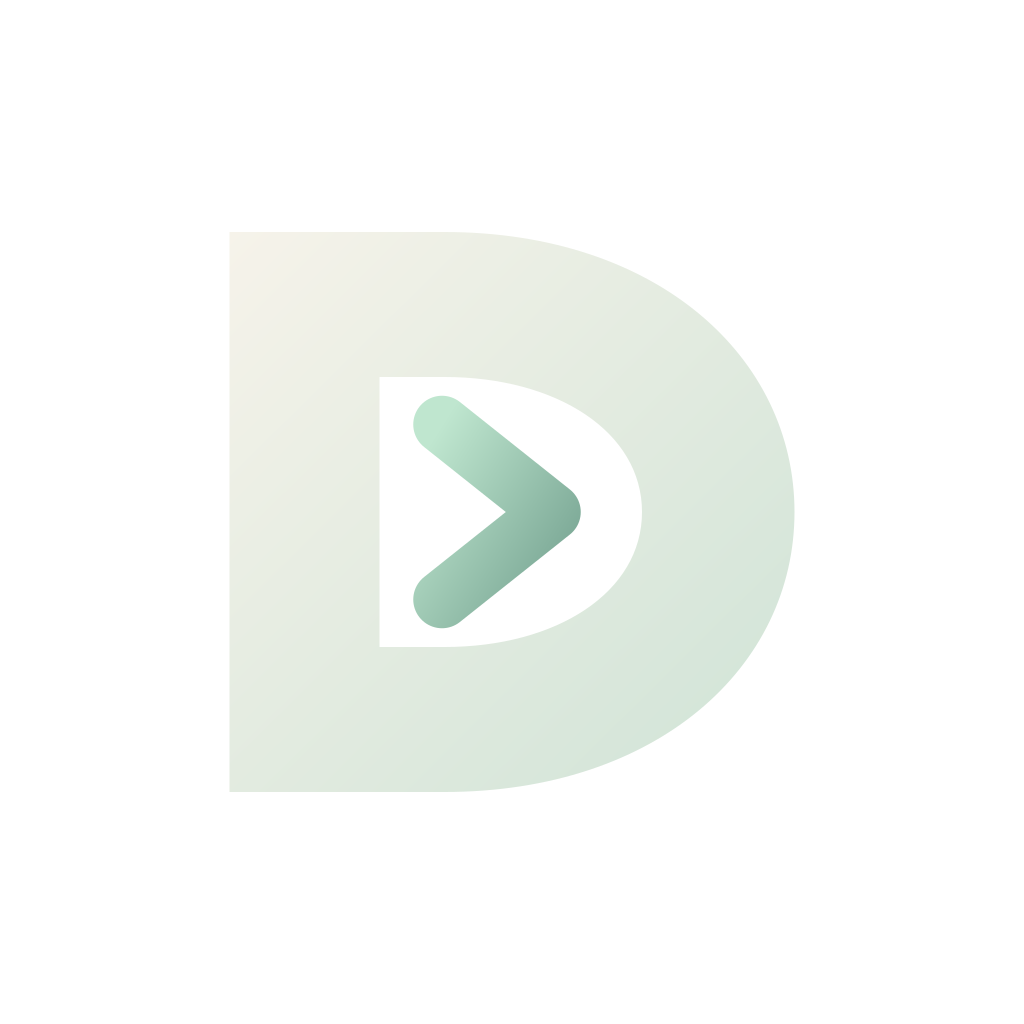
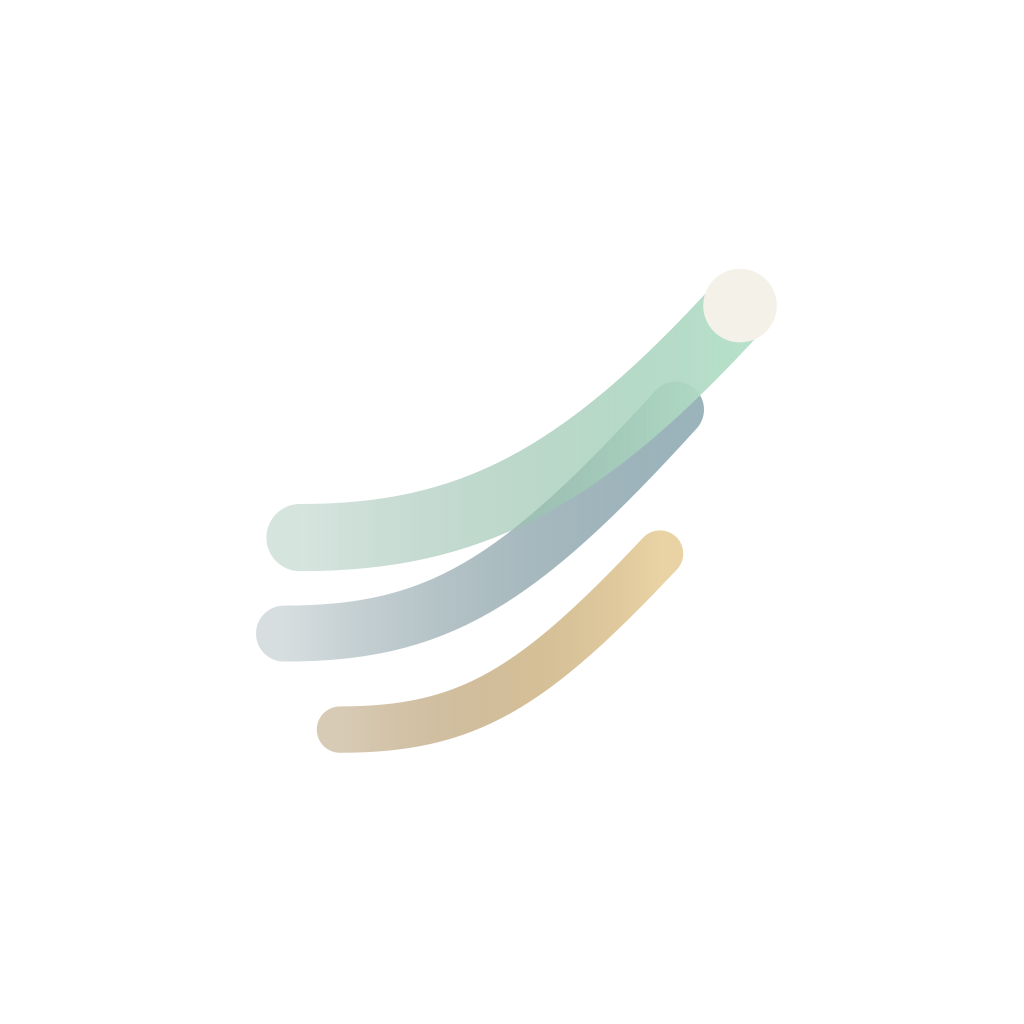
fix(brand): switch mark to Momentum + fix dark-mode auth card contrast Replaces Stride D across all surfaces with the approved Momentum ribbons; Register/Forgot/Reset cards now use bg-surface-container so text is readable in dark mode (was a hardcoded light glass bg).

Changed region(s): [[0.2188, 0.2188, 0.7812, 0.7812]]

diff --git a/frontend/src/components/DravrLogo.tsx b/frontend/src/components/DravrLogo.tsx
@@ -1,4 +1,4 @@
-// ABOUTME: Shared Dravr brand mark — the "Stride D" badge as an inline SVG React component.
+// ABOUTME: Shared Dravr brand mark — the "Momentum" badge as an inline SVG React component.
 // ABOUTME: Single source of truth for the in-app logo; replaces the per-screen inline node-graph SVGs.
 
 import { useId } from 'react';
@@ -10,8 +10,8 @@ interface DravrLogoProps {
 }
 
 /**
- * The canonical Dravr mark: a bold D monogram with a forward chevron, on the
- * Boreal forest badge. Self-contained (brings its own background) so it stays
+ * The canonical Dravr mark: three upward "momentum" ribbons rising to a node, on
+ * the Boreal forest badge. Self-contained (brings its own background) so it stays
  * legible on light, dark, and green surfaces alike. Gradient ids are namespaced
  * per instance via useId so multiple logos on one page never collide.
  *
@@ -21,8 +21,9 @@ interface DravrLogoProps {
 export function DravrLogo({ size = 48, className }: DravrLogoProps) {
   const uid = useId();
   const bg = `${uid}-bg`;
-  const mark = `${uid}-mark`;
-  const acc = `${uid}-acc`;
+  const r1 = `${uid}-r1`;
+  const r2 = `${uid}-r2`;
+  const r3 = `${uid}-r3`;
   const clip = `${uid}-clip`;
   return (
     <svg
@@ -39,13 +40,17 @@ export function DravrLogo({ size = 48, className }: DravrLogoProps) {
           <stop offset="0" stopColor="#00261c" />
           <stop offset="1" stopColor="#0e4030" />
         </linearGradient>
-        <linearGradient id={mark} x1="0.1" y1="0" x2="0.9" y2="1">
-          <stop offset="0" stopColor="#f6f3ea" />
-          <stop offset="1" stopColor="#cfe3d6" />
+        <linearGradient id={r1} x1="0" y1="0" x2="1" y2="0">
+          <stop offset="0" stopColor="#5e7a82" stopOpacity="0.25" />
+          <stop offset="1" stopColor="#9bb3bb" />
         </linearGradient>
-        <linearGradient id={acc} x1="0" y1="0" x2="1" y2="1">
-          <stop offset="0" stopColor="#bfe6cf" />
-          <stop offset="1" stopColor="#79a694" />
+        <linearGradient id={r2} x1="0" y1="0" x2="1" y2="0">
+          <stop offset="0" stopColor="#79a694" stopOpacity="0.3" />
+          <stop offset="1" stopColor="#b6e0c9" />
+        </linearGradient>
+        <linearGradient id={r3} x1="0" y1="0" x2="1" y2="0">
+          <stop offset="0" stopColor="#8f6a2e" stopOpacity="0.35" />
+          <stop offset="1" stopColor="#e9d2a3" />
         </linearGradient>
         <clipPath id={clip}>
           <rect width="1024" height="1024" rx="230" />
@@ -53,20 +58,13 @@ export function DravrLogo({ size = 48, className }: DravrLogoProps) {
       </defs>
       <g clipPath={`url(#${clip})`}>
         <rect width="1024" height="1024" fill={`url(#${bg})`} />
-        <circle cx="296" cy="270" r="560" fill="#ffffff" opacity="0.05" />
-        <path
-          fill={`url(#${mark})`}
-          fillRule="evenodd"
-          d="M348 288 L520 288 C690 288 800 388 800 512 C800 636 690 736 520 736 L348 736 Z M468 404 L520 404 C610 404 678 448 678 512 C678 576 610 620 520 620 L468 620 Z"
-        />
-        <path
-          fill="none"
-          stroke={`url(#${acc})`}
-          strokeWidth="46"
-          strokeLinecap="round"
-          strokeLinejoin="round"
-          d="M518 442 L606 512 L518 582"
-        />
+        <circle cx="720" cy="300" r="520" fill="#ffffff" opacity="0.05" />
+        <g fill="none" strokeLinecap="round">
+          <path stroke={`url(#${r1})`} strokeWidth="70" d="M230 660 C420 660 520 600 720 380" />
+          <path stroke={`url(#${r2})`} strokeWidth="84" d="M250 540 C460 540 600 470 800 250" />
+          <path stroke={`url(#${r3})`} strokeWidth="58" d="M300 780 C460 780 540 730 700 560" />
+        </g>
+        <circle cx="800" cy="250" r="46" fill="#f4f1e8" />
       </g>
     </svg>
   );

diff --git a/frontend/src/components/Register.tsx b/frontend/src/components/Register.tsx
@@ -58,11 +58,7 @@ export default function Register({ onNavigateToLogin, onRegistrationSuccess }: R
       <div className="max-w-md w-full">
         {/* Card with glassmorphism and gradient accent bar */}
         <div
-          className="rounded-xl border ghost-border overflow-hidden relative"
-          style={{
-            background: 'rgba(244, 244, 241, 0.8)',
-            backdropFilter: 'blur(12px)',
-          }}
+          className="rounded-xl border ghost-border overflow-hidden relative bg-surface-container"
         >
           {/* Gradient accent bar at top */}
           <div className="h-1 w-full boreal-hero-gradient" />

diff --git a/frontend/src/components/ForgotPassword.tsx b/frontend/src/components/ForgotPassword.tsx
@@ -48,11 +48,7 @@ export default function ForgotPassword({ onNavigateToLogin, onCodeSent }: Forgot
     <div className="min-h-screen flex items-center justify-center py-12 px-4 sm:px-6 lg:px-8 bg-surface">
       <div className="max-w-md w-full">
         <div
-          className="rounded-xl border ghost-border overflow-hidden relative"
-          style={{
-            background: 'rgba(244, 244, 241, 0.8)',
-            backdropFilter: 'blur(12px)',
-          }}
+          className="rounded-xl border ghost-border overflow-hidden relative bg-surface-container"
         >
           <div className="h-1 w-full boreal-hero-gradient" />
 

diff --git a/frontend/src/components/ResetPassword.tsx b/frontend/src/components/ResetPassword.tsx
@@ -102,11 +102,7 @@ export default function ResetPassword({
     <div className="min-h-screen flex items-center justify-center py-12 px-4 sm:px-6 lg:px-8 bg-surface">
       <div className="max-w-md w-full">
         <div
-          className="rounded-xl border ghost-border overflow-hidden relative"
-          style={{
-            background: 'rgba(244, 244, 241, 0.8)',
-            backdropFilter: 'blur(12px)',
-          }}
+          className="rounded-xl border ghost-border overflow-hidden relative bg-surface-container"
         >
           <div className="h-1 w-full boreal-hero-gradient" />
 

diff --git a/frontend/BRAND.md b/frontend/BRAND.md
@@ -53,27 +53,25 @@ background: linear-gradient(135deg, #b08326 0%, #8a6420 100%);
 background: linear-gradient(135deg, #3e7283 0%, #2f5664 100%);
 ```
 
-## Logo — "Stride D"
+## Logo — "Momentum"
 
-The mark is a bold **D monogram** (for Dravr) with a forward **chevron** set into its
-counter. The chevron reads as both a running stride and a "press play" cue — fitting for a
-conversational coaching product — while the single letterform stays legible from a 16px
-favicon to a 1024px app icon. Rendered in the Boreal Editorial palette (deep forest green
-with a sage accent). All assets are derived from one canonical path so they cannot drift.
+The mark is three upward **momentum ribbons** rising left-to-right to a single bright
+node, on the Boreal forest badge. The ribbons read as speed / progress / a training
+trajectory — fitting for a coaching product — and carry the three pillar hues (sage,
+slate, bronze) fading in from the left into the brand greens. The badge is self-contained
+(forest-green rounded square) so it stays legible on light, dark, and green surfaces.
 
 ### Framing variants
 | Variant | Files | Composition |
 |---------|-------|-------------|
-| **Badge** | `dravr-icon.svg`, `dravr-favicon.svg`, mobile `icon`/`favicon` | Forest-green rounded square + off-white D + sage chevron. Mobile `icon` is full-bleed (the OS masks corners). |
-| **Mark, light** | mobile `dravr-logo.svg`, `adaptive-icon.svg`, template `*-dark.svg` | Off-white D + sage chevron on a transparent background. For dark surfaces or atop the green badge layer. |
-| **Mark, dark** | web `dravr-logo.svg`, server `dravr-logo.svg` / `-small.svg`, splash | Deep-forest D + sage chevron on a transparent background. For light surfaces. |
+| **Badge** | `dravr-icon.svg`, `dravr-favicon.svg`, web/server `dravr-logo*.svg`, mobile `icon`/`favicon`/`dravr-logo`, splash | Forest-green rounded square + Momentum ribbons + node. Mobile `icon` is full-bleed (the OS masks corners). |
+| **Foreground** | mobile `adaptive-icon.svg` | Transparent Momentum ribbons inside the Android ~66% safe zone, atop the green background layer. |
 
 ### Logo Don'ts
 - Don't bake the "Dravr" wordmark into the icon — it is a mark-only symbol (the wordmark is set in HTML using Plus Jakarta Sans).
-- Don't recolor the mark outside the Boreal palette.
+- Don't recolor the ribbons outside the Boreal pillar hues (sage / slate / bronze).
 - Don't stretch or distort proportions.
-- Don't place the light mark on a light surface (or the dark mark on a dark surface) — pick the variant that matches the background.
-- Don't use the transparent mark below 32px — use the badge (icon/favicon) instead.
+- Prefer the badge for any placement under ~48px — the bare ribbons get muddy small.
 
 ## Typography
 
